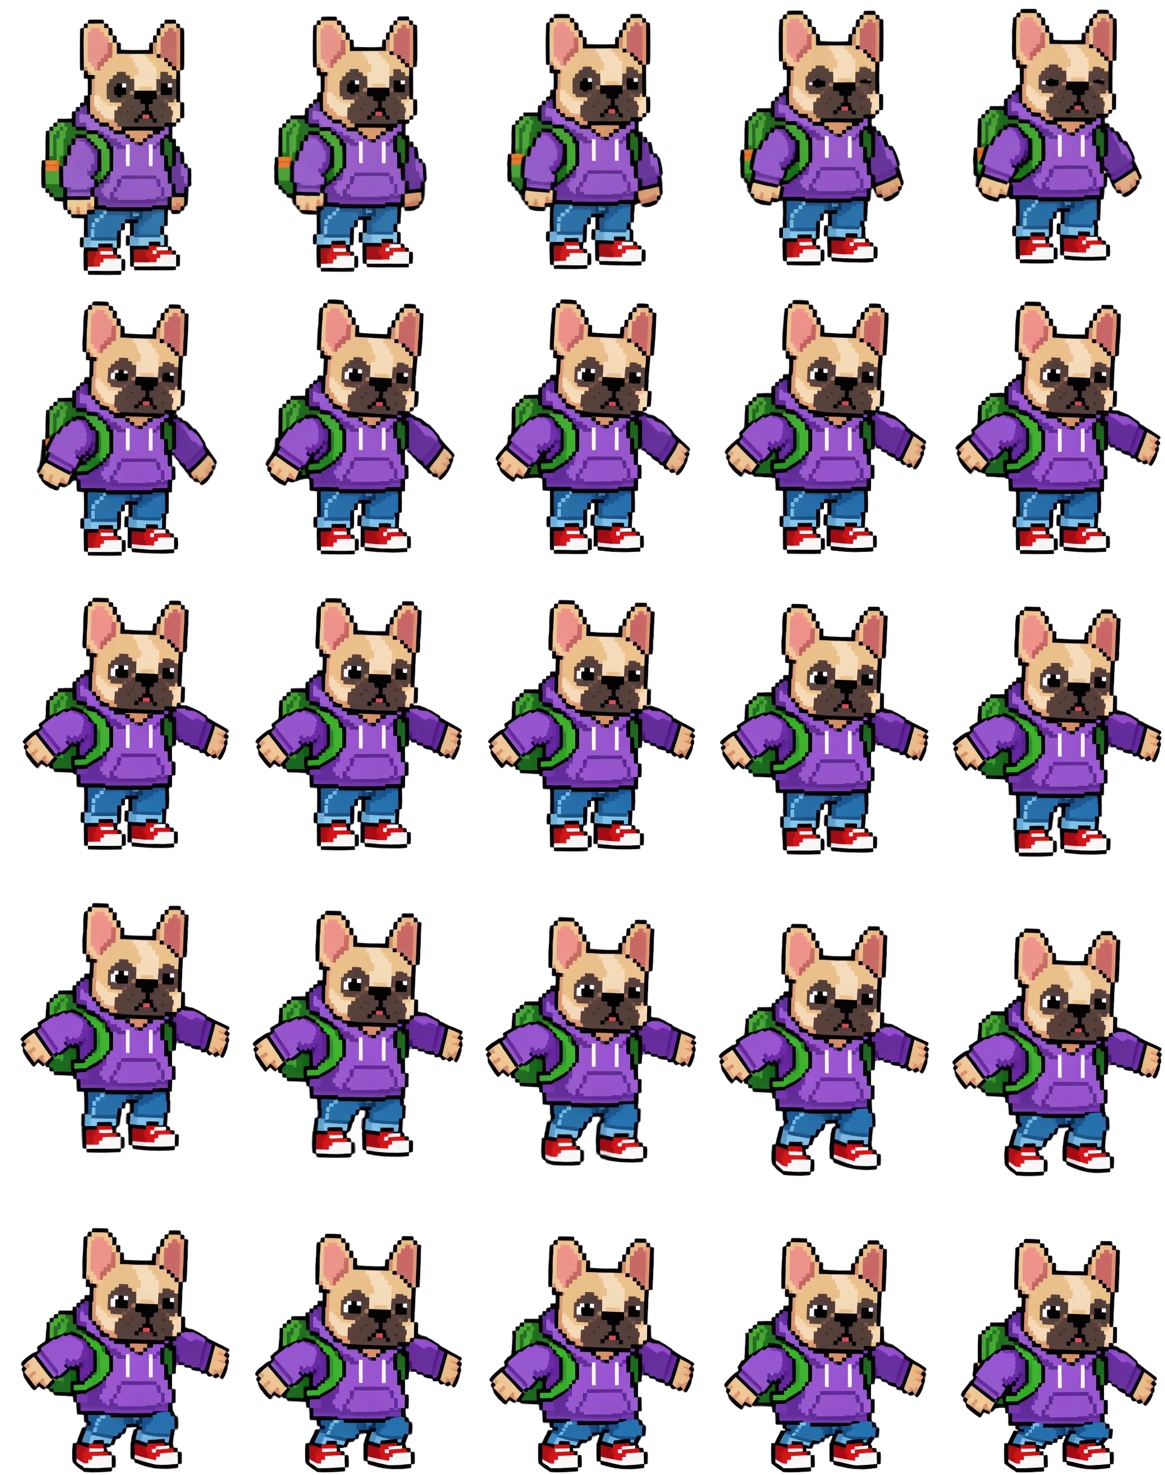
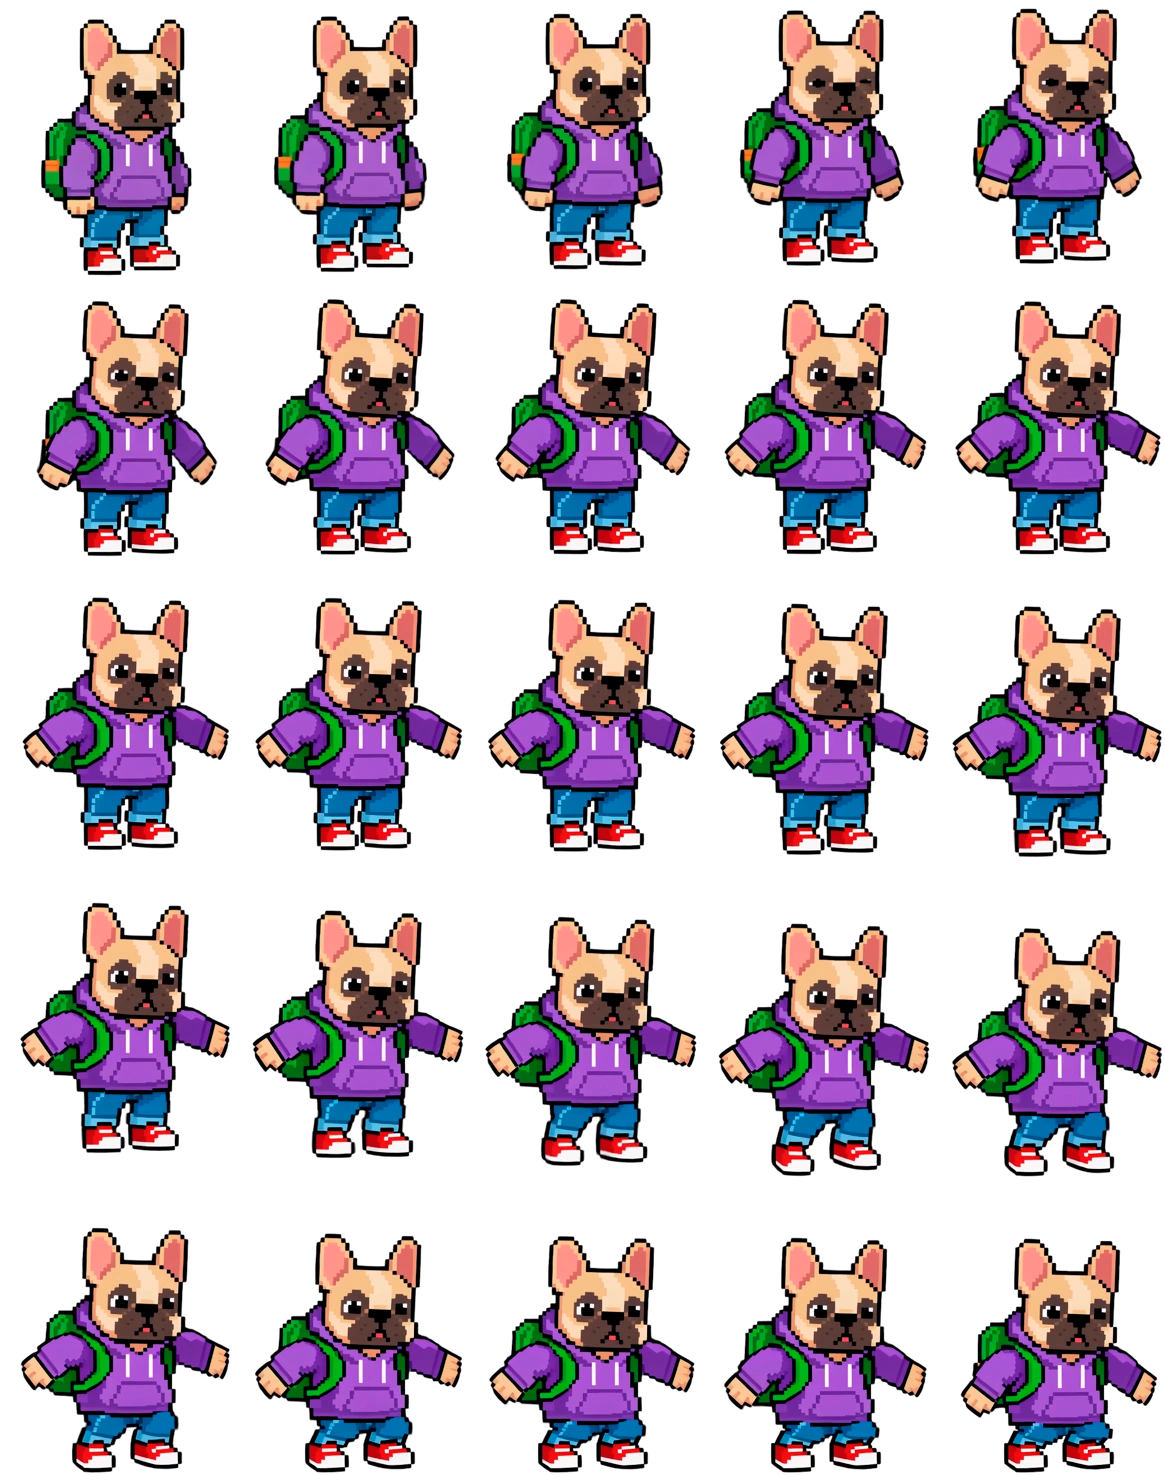
odo correcto. Resumen de la reestructuración:
Nueva convención de claves en el sprite bank

e_w{W}_{S}_{anim}_{dir}
W = 1-4 (World_1 a World_4)
S = f (First_Section, rows 0-3) o s (Second_Section, rows ≥ TROW=4)
anim = idle, walk, hurt, death, atack, atack1, atack2
dir = right o left (omitido para sprites sin dirección)
Carga dinámica — itera 4 mundos × 2 secciones y trata de cargar cada variante. Los que no existan (404) quedan como null en el banco sin romper nada.

resolveEnemySpr(e, sprs) — cadena de fallbacks por prioridad:

Sprite de su mundo+sección+animación+dirección
Sin dirección (ej: idle único)
Dirección opuesta (si solo existe un lado)
Fallback a idle del mismo mundo/sección
Selección de ataque — e.phase % 2 + 1 determina atack1 o atack2. Si el enemigo solo tiene un ataque sin número (atack_right.png), cae automáticamente en él.

Jefes (boss) — siguen usando los prefijos boos_ sin cambios.

Minimap — resuelve el sprite por cada enemigo individual (antes era un único enemy_idle para todos).

diff --git a/app/page.tsx b/app/page.tsx
@@ -5225,22 +5225,48 @@ function drawPlayer(ctx: CanvasRenderingContext2D, g: G, sprs: SprBank) {
   ctx.fillStyle = "#FFD700"; ctx.fillRect(13, 23, 6, 2); ctx.restore()
 }
 
-function pickEnemySprite(e: Enemy): string {
-  const dir = e.dying ? e.deathDir : e.dir
-  const side = dir >= 0 ? "right" : "left"
+// Determina la sección del enemigo a partir de su fila (extraída del ID "w_c_r_i")
+function enemySection(e: Enemy): "f" | "s" {
+  const row = parseInt(e.id.split("_")[2]) || 0
+  return row < TROW ? "f" : "s"
+}
+
+// Resuelve el sprite correcto con cadena de fallbacks:
+//   1. Sprite específico del mundo+sección+animación+dirección
+//   2. Variante sin dirección (ej: idle único para esa sección)
+//   3. Variante de la dirección opuesta (si solo existe un lado)
+// Los jefes (boss) siguen usando los prefijos boos_ sin cambios.
+function resolveEnemySpr(e: Enemy, sprs: SprBank): HTMLImageElement | null {
+  const dir = (e.dying ? e.deathDir : e.dir) >= 0 ? "right" : "left"
+  const opp = dir === "right" ? "left" : "right"
+  const ok  = (k: string) => { const s = sprs[k]; return s?.complete && s.naturalWidth > 0 ? s : null }
+
   if (e.boss) {
-    if (e.dying) return `boos_defeat_${side}`
-    if (e.hurtTimer > 0) return `boos_hurt_${side}`
-    if (e.sa > 0) return `boos_atack_${side}`
-    if (e.isMoving) return `boos_flight_${side}`
-    return "enemy_idle"
-  } else {
-    if (e.dying) return `enemy_death_${side}`
-    if (e.hurtTimer > 0) return `enemy_hurt_${side}`
-    if (e.sa > 0) return `enemy_atack_${side}`
-    if (e.isMoving) return `enemy_walk_${side}`
-    return "enemy_idle"
+    const anim = e.dying ? "defeat" : e.hurtTimer > 0 ? "hurt" : e.sa > 0 ? "atack" : "flight"
+    return ok(`boos_${anim}_${dir}`) ?? ok(`boos_${anim}_${opp}`) ?? null
   }
+
+  const w   = Math.max(1, Math.min(e.world + 1, NW))  // 1-indexed (1-4)
+  const sec = enemySection(e)                          // "f" | "s"
+  const pk  = `e_w${w}_${sec}_`
+
+  let keys: string[]
+  if (e.dying) {
+    keys = [`${pk}death_${dir}`, `${pk}death_${opp}`, `${pk}idle_${dir}`, `${pk}idle`]
+  } else if (e.hurtTimer > 0) {
+    keys = [`${pk}hurt_${dir}`, `${pk}hurt_${opp}`, `${pk}idle_${dir}`, `${pk}idle`]
+  } else if (e.sa > 0) {
+    // phase determina cuál ataque usar (0→atack1, 1→atack2); cae en atack genérico si no existe
+    const pn = (e.phase || 0) % 2 + 1
+    keys = [`${pk}atack${pn}_${dir}`, `${pk}atack${pn}`, `${pk}atack_${dir}`, `${pk}atack`, `${pk}idle_${dir}`, `${pk}idle`]
+  } else if (e.isMoving) {
+    keys = [`${pk}walk_${dir}`, `${pk}walk_${opp}`, `${pk}idle_${dir}`, `${pk}idle`]
+  } else {
+    keys = [`${pk}idle_${dir}`, `${pk}idle_${opp}`, `${pk}idle`]
+  }
+
+  for (const k of keys) { const s = ok(k); if (s) return s }
+  return null
 }
 
 function drawSpriteFrame(ctx: CanvasRenderingContext2D, spr: HTMLImageElement, frame: number, dx: number, dy: number, dw: number, dh: number) {
@@ -5258,9 +5284,8 @@ function drawEnemies(ctx: CanvasRenderingContext2D, g: G, sprs: SprBank) {
     const wi = Math.max(0, Math.min(e.world, NW - 1)), th = THEMES[wi]
     if (e.dying) { const fade = Math.max(0, 1 - (e.deathTimer - 0.9) / 0.45); ctx.globalAlpha = Math.min(1, fade) }
     if (e.hurtTimer > 0 && Math.floor(Date.now() / 60) % 2 === 0) { ctx.globalAlpha = 0.45 }
-    const key = pickEnemySprite(e)
-    const spr = sprs[key]
-    if (spr && spr.complete && spr.naturalWidth > 0) {
+    const spr = resolveEnemySpr(e, sprs)
+    if (spr) {
       drawSpriteFrame(ctx, spr, e.ef, sx, sy, e.w, e.h)
     } else {
       ctx.fillStyle = e.boss ? th.doorC : th.wallHi
@@ -6290,12 +6315,8 @@ function drawRealMapDev(ctx: CanvasRenderingContext2D, g: G, sprs: SprBank) {
 
       // ── Enemigos activos en este cubículo ────────────────────────
       {
-        const enSprGame = sprs["enemy_idle"]
-        const enSprV1   = sprs["icon_enemy_v1"]
-        const enSprV2   = sprs["icon_enemy_v2"]
-        const enSpr     = iconMode === 1 ? (enSprV1 || enSprGame)
-                        : iconMode === 2 ? (enSprV2 || enSprGame)
-                        : enSprGame
+        const enSprV1 = sprs["icon_enemy_v1"]
+        const enSprV2 = sprs["icon_enemy_v2"]
         for (const e of g.enemies) {
           if (!e.active || e.dying) continue
           if (e.world !== w) continue
@@ -6308,9 +6329,14 @@ function drawRealMapDev(ctx: CanvasRenderingContext2D, g: G, sprs: SprBank) {
           const eBotY = cy + (e.y + e.h      - y0) * scY
           const eMapX = eCX   - eDW / 2
           const eMapY = eBotY - eDH
+          // iconMode=0: sprite de juego resuelto por mundo/sección del enemigo
+          const enSprGame = resolveEnemySpr(e, sprs)
+          const enSpr = iconMode === 1 ? (enSprV1 || enSprGame)
+                      : iconMode === 2 ? (enSprV2 || enSprGame)
+                      : enSprGame
           if (enSpr && enSpr.complete && enSpr.naturalWidth > 0) {
             if (iconMode === 0) {
-              drawFrame(enSpr, eMapX, eMapY, eDW, eDH, 4, 4, e.dir < 0)  // enemigos: 4×4
+              drawFrame(enSpr, eMapX, eMapY, eDW, eDH, 4, 4, e.dir < 0)  // 4×4 spritesheet
             } else {
               drawSmooth(enSpr, eMapX, eMapY, eDW, eDH)
             }
@@ -7249,19 +7275,30 @@ export default function ProyectoLuly() {
     // dash: cargados pero no usados hasta tener sprites 25fps
     L("player_dash_right", "/assets/player/player_dash_right.png")
     L("player_dash_left",  "/assets/player/player_dash_left.png")
-    L("enemy_idle", "/assets/enemy/enemy_idle.png")
-    L("enemy_walkR", "/assets/enemy/enemy_walk_right.png")
-    L("enemy_walkL", "/assets/enemy/enemy_walk_left.png")
-    L("enemy_walk_right", "/assets/enemy/enemy_walk_right.png")
-    L("enemy_walk_left", "/assets/enemy/enemy_walk_left.png")
-    L("enemy_atackR", "/assets/enemy/enemy_atack_right.png")
-    L("enemy_atackL", "/assets/enemy/enemy_atack_left.png")
-    L("enemy_atack_right", "/assets/enemy/enemy_atack_right.png")
-    L("enemy_atack_left", "/assets/enemy/enemy_atack_left.png")
-    L("enemy_hurt_right", "/assets/enemy/enemy_hurt_right.png")
-    L("enemy_hurt_left", "/assets/enemy/enemy_hurt_left.png")
-    L("enemy_death_right", "/assets/enemy/enemy_death_right.png")
-    L("enemy_death_left", "/assets/enemy/enemy_death_left.png")
+    // Enemigos — sprites por Mundo (1-4) × Sección (f=First / s=Second)
+    // Claves: e_w{W}_{sec}_{anim}_{dir}  ej: e_w1_f_idle_right
+    // Sprites opcionales: si el archivo no existe, onerror → null (fallback graceful)
+    for (const w of [1,2,3,4] as const) {
+      for (const [si, secFolder] of (["First_Section","Second_Section"] as const).entries()) {
+        const sk = si === 0 ? "f" : "s"
+        const base = `/assets/enemy/World_${w}/${secFolder}/enemy_`
+        const pk   = `e_w${w}_${sk}_`
+        for (const dir of ["right","left"] as const) {
+          L(`${pk}idle_${dir}`,   `${base}idle_${dir}.png`)
+          L(`${pk}walk_${dir}`,   `${base}walk_${dir}.png`)
+          L(`${pk}hurt_${dir}`,   `${base}hurt_${dir}.png`)
+          L(`${pk}death_${dir}`,  `${base}death_${dir}.png`)
+          L(`${pk}atack_${dir}`,  `${base}atack_${dir}.png`)
+          L(`${pk}atack1_${dir}`, `${base}atack_1_${dir}.png`)
+          L(`${pk}atack2_${dir}`, `${base}atack_2_${dir}.png`)
+        }
+        // Variantes sin dirección (ej: enemy_idle.png único)
+        L(`${pk}idle`,   `${base}idle.png`)
+        L(`${pk}atack`,  `${base}atack.png`)
+        L(`${pk}atack1`, `${base}atack_1.png`)
+        L(`${pk}atack2`, `${base}atack_2.png`)
+      }
+    }
     L("boos_flight_right", "/assets/boos/boos_flight_right.png")
     L("boos_flight_left", "/assets/boos/boos_flight_left.png")
     L("boos_atack_right", "/assets/boos/boos_atack_right.png")